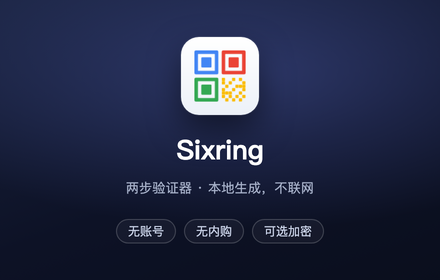
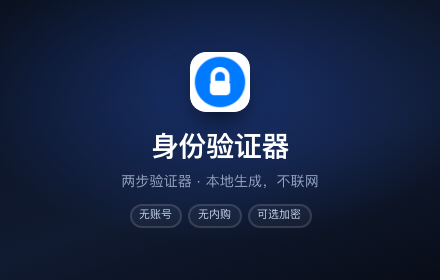
chore(assets): recapture the screenshots and drive them from one script
The marketing images predated the rename away from Sixring and the redesign of the
list, empty state, scan screen and settings page, so they were showing a product
that no longer exists. They are regenerated from the current build.

The fourth image showed a first-run onboarding screen that has been removed since;
it now shows the backup and recovery section, which is what its copy was already
promising. Its filename follows: screenshot-4-lock.png becomes -4-backup.png.

pnpm shots replaces the old manual flow — it drives the popup over CDP with no extra
dependencies, writes the raw popup captures once, and renders both the README images
and the 1280x800 marketing frames from them, so the two sets can no longer drift.
Crop heights come from measured element boundaries rather than guesses, and the
capture waits for a fresh countdown tick so a row is never caught in the orange
"about to expire" state.

diff --git a/scripts/shots/board.html b/scripts/shots/board.html
@@ -2,7 +2,7 @@
 <html lang="zh-CN">
   <head>
     <meta charset="utf-8" />
-    <title>Sixring 商店素材</title>
+    <title>身份验证器 商店素材</title>
     <!--
       商店截图的排版稿。
 
@@ -116,7 +116,9 @@
       .frame {
         position: absolute;
         left: 372px;
-        width: 200px;
+        /* 与下面 img 的宽度保持一致：原图就是 400 宽的弹窗，靠 width 缩到 62.5%。
+           两者不等宽时 overflow 会把弹窗右边切掉一条（倒计时环首当其冲） */
+        width: 250px;
         overflow: hidden;
         border-radius: 7px;
         box-shadow:
@@ -163,7 +165,7 @@
       const SHOTS = {
         '1': {
           file: '1-list',
-          height: 300,
+          height: 311,
           eyebrow: 'Account list',
           title: '一屏看完所有验证码',
           body: '点一下就复制，环形倒计时告诉你还剩几秒。搜索、置顶、拖拽排序都在列表上。',
@@ -171,7 +173,7 @@
         },
         '2': {
           file: '2-dark',
-          height: 300,
+          height: 311,
           eyebrow: 'Dark mode',
           title: '暗色不是简单反色',
           body: '背景、卡片、分隔线与强调色各自取过值，黑底上验证码依然一眼可读。',
@@ -179,7 +181,7 @@
         },
         '3': {
           file: '3-scan',
-          height: 202,
+          height: 237,
           eyebrow: 'Add by screenshot',
           // 左栏只有 232px 宽，21px 字号一行最多九个汉字；
           // 多一个字就会把最后的"来"甩到第二行，看起来像排版出错
@@ -188,8 +190,8 @@
           bullets: ['图片在本地解码，不申请摄像头', '不联网、不上传图片', '识别失败会说清是哪一步'],
         },
         '4': {
-          file: '4-onboard',
-          height: 202,
+          file: '4-backup',
+          height: 285,
           eyebrow: 'Local & encrypted',
           title: '密钥只加密存在本地',
           body: '不同步、不上传，也没有服务器能看到你的密钥。密码可以不设，设了就有恢复码兜底。',
@@ -204,7 +206,7 @@
         stage.innerHTML = `
           <div class="promo">
             <img class="mark" src="/icons/128.png" alt="" />
-            <h1>Sixring</h1>
+            <h1>身份验证器</h1>
             <p>两步验证器 · 本地生成，不联网</p>
             <div class="chips">
               <span>无账号</span><span>无内购</span><span>可选加密</span>
@@ -217,7 +219,7 @@
           <div class="shot">
             <div class="brand">
               <img src="/icons/128.png" alt="" />
-              <span>Sixring</span>
+              <span>身份验证器</span>
             </div>
             <div class="copy">
               <div class="eyebrow">${shot.eyebrow}</div>
